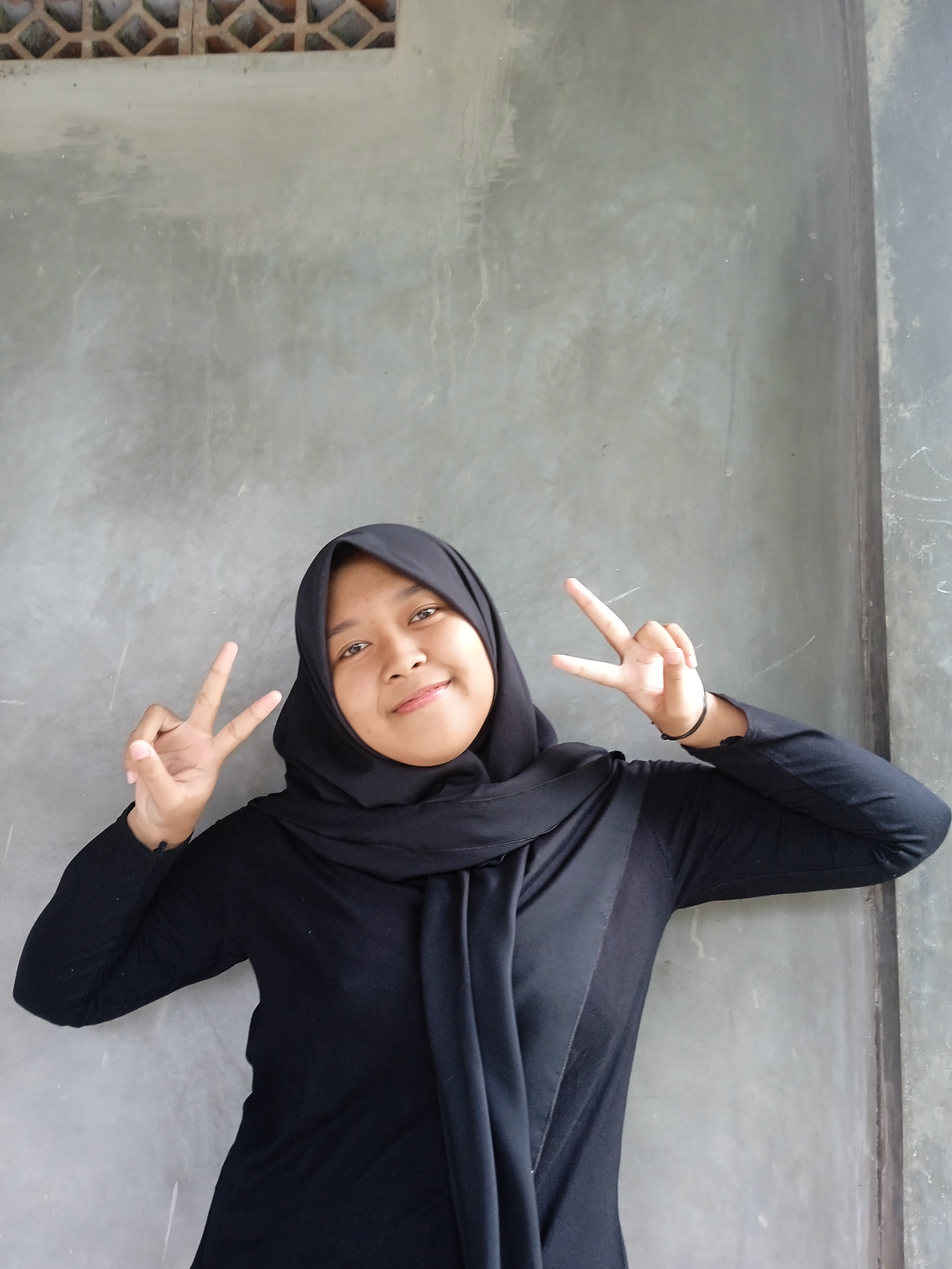
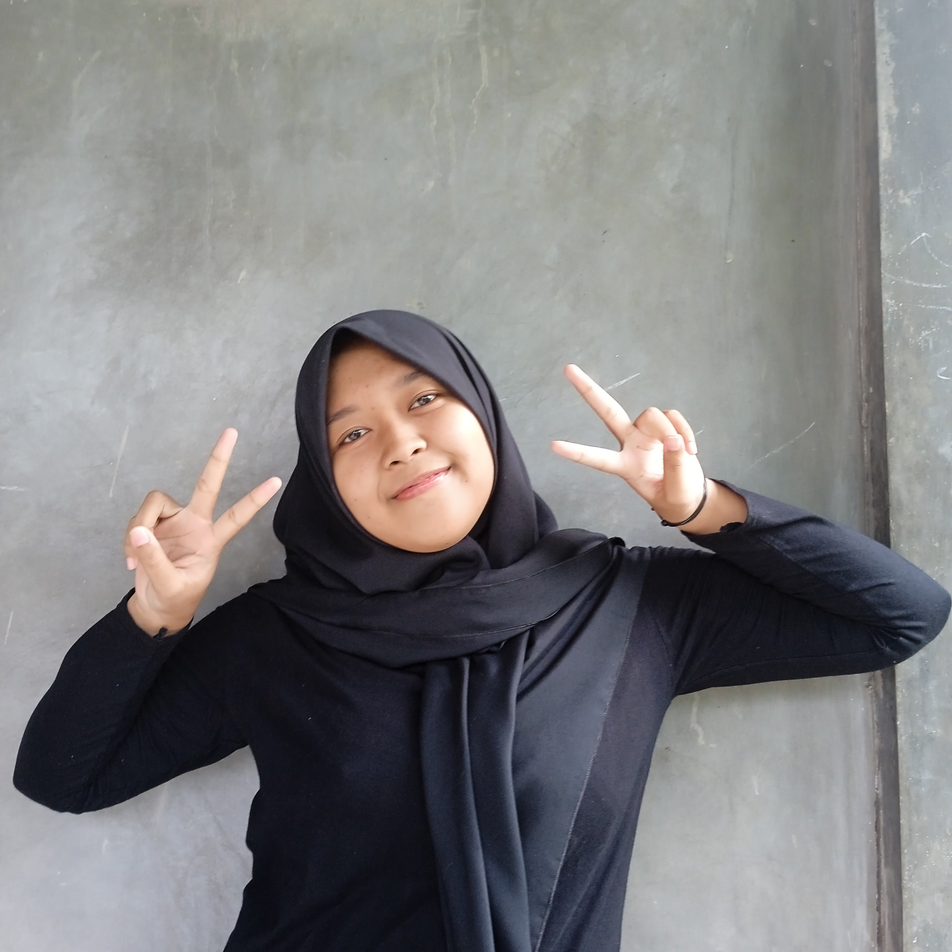
the last

diff --git a/index.html b/index.html
@@ -220,25 +220,23 @@
                                 <span class="icon icon-twitter"></span> <a href="#">@fitnessidolteam.com</a> <br/>
                                 <span class="icon icon-facebook"></span> <a href="#">fitness idol</a> <br/>
                             </p>
-                        </div>
+                        </div><!-- col -->
+
                         <div class="col-md-8 fade-up">
-                        	<section class="register">
-	        					<h1>register</h1>
-	       	 					<form>
-		            				<div class="input_box">
-		                				<input type="text" placeholder="First Name">
-		                				<input type="text" placeholder="last Name">
-		            				</div>
-		            				<div class="input_box">
-		                				<input type="email" placeholder="your email">
-		                				<input type="number" placeholder="your number">
-		            				</div>
-		            				<textarea cols="30" rows="10" placeholder="Message ..."></textarea>
-		            				<input type="submit" value="connect us" class="btn">
-	        					</form>
-    						</section>
-                        </div>
-                        	<!-- col -->
+                            <h3>Drop Us A Message</h3>
+                            <br>
+                            <br>
+                            <div id="message"></div>
+                            <form method="post" action="sendemail.php" id="contactform">
+                                <input type="text" name="name" id="name" placeholder="Name" />
+                                <input type="text" name="email" id="email" placeholder="Email" />
+                                <input type="text" name="website" id="website" placeholder="Website" />
+                                <textarea name="comments" id="comments" placeholder="Comments"></textarea>
+                                <input class="btn btn-outlined btn-primary" type="submit" name="submit" value="Submit" />
+                            </form>
+                        </div><!-- col -->
+                    </div><!-- row -->
+                    <div class="gap"></div>
                     </div><!-- row -->
                     <div class="gap"></div>
                 </div>

diff --git a/about-us.html b/about-us.html
@@ -69,7 +69,7 @@
                                 <div class="center gap fade-down section-heading">
                                     <h2 class="main-title">About Us</h2>
                                     <hr>
-                                    <p>Of an or game gate west face shed. no great but music too old found arose.</p>
+                                    <p>Every body is perfect but if you want to be idol body come here</p>
                                 </div>
                             </div>
                         </div>
@@ -103,7 +103,8 @@
                 <div id="meet-the-team" class="row">
                     <div class="col-md-3 col-xs-6">
                         <div class="center team-member">
-                            <img class="img-responsive img-thumbnail bounce-in" src="http://placehold.it/400x400" alt="">
+                            <img class="img-responsive img-thumbnail bounce-in" src="MUT.jpg"
+                            http://placehold.it/400x400 alt="">
                             <div class="team-content fade-up">
                                 <h5>Mutiah Ratih Purwanti<small class="role muted">Web Design</small></h5>
                                 <p>She is a founder of idol company who loves various sports so she can establish Fitness idol</p>
